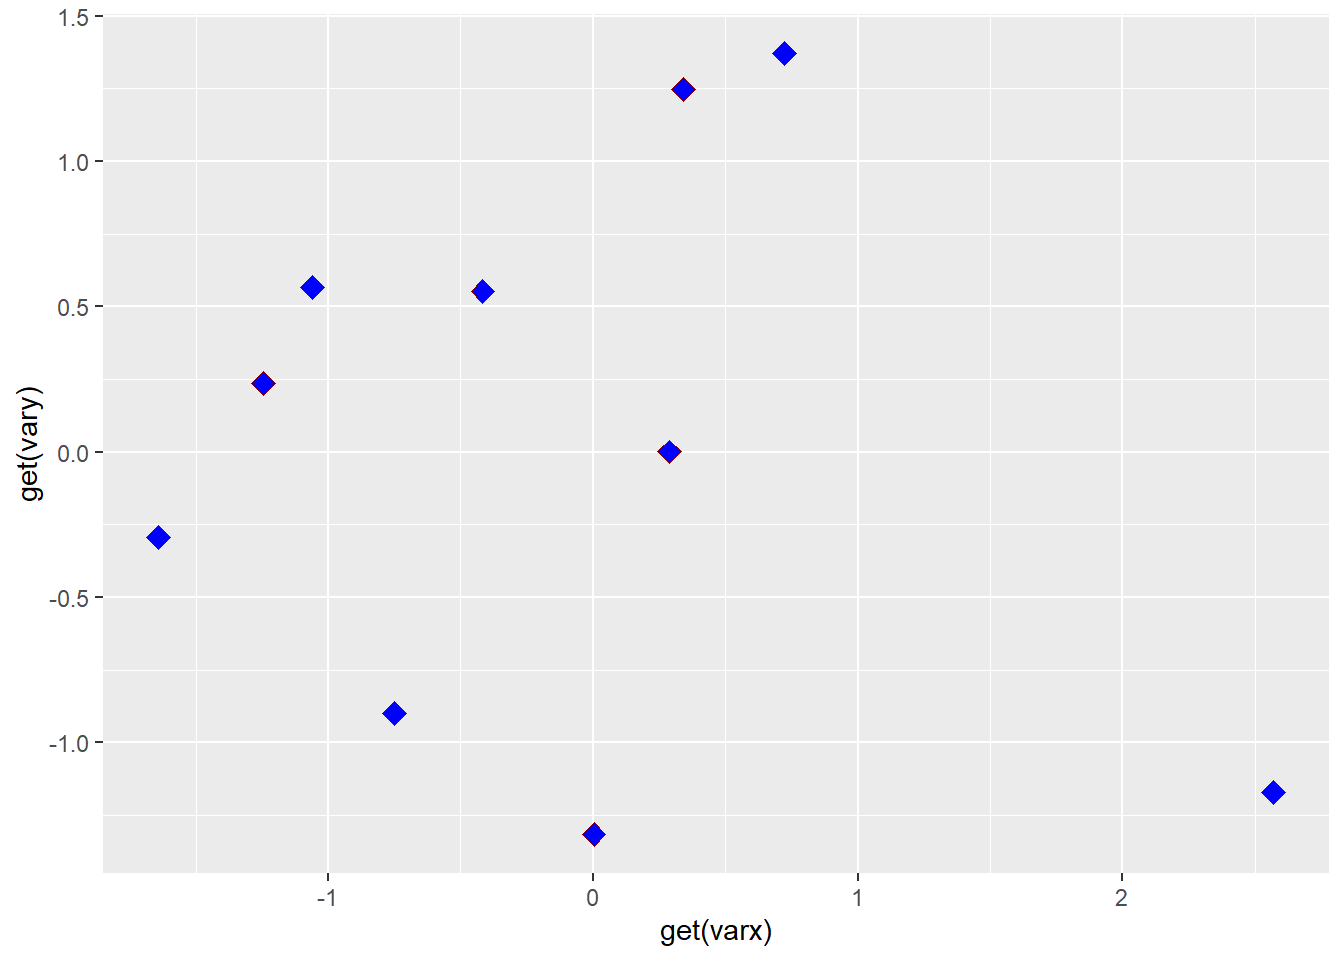
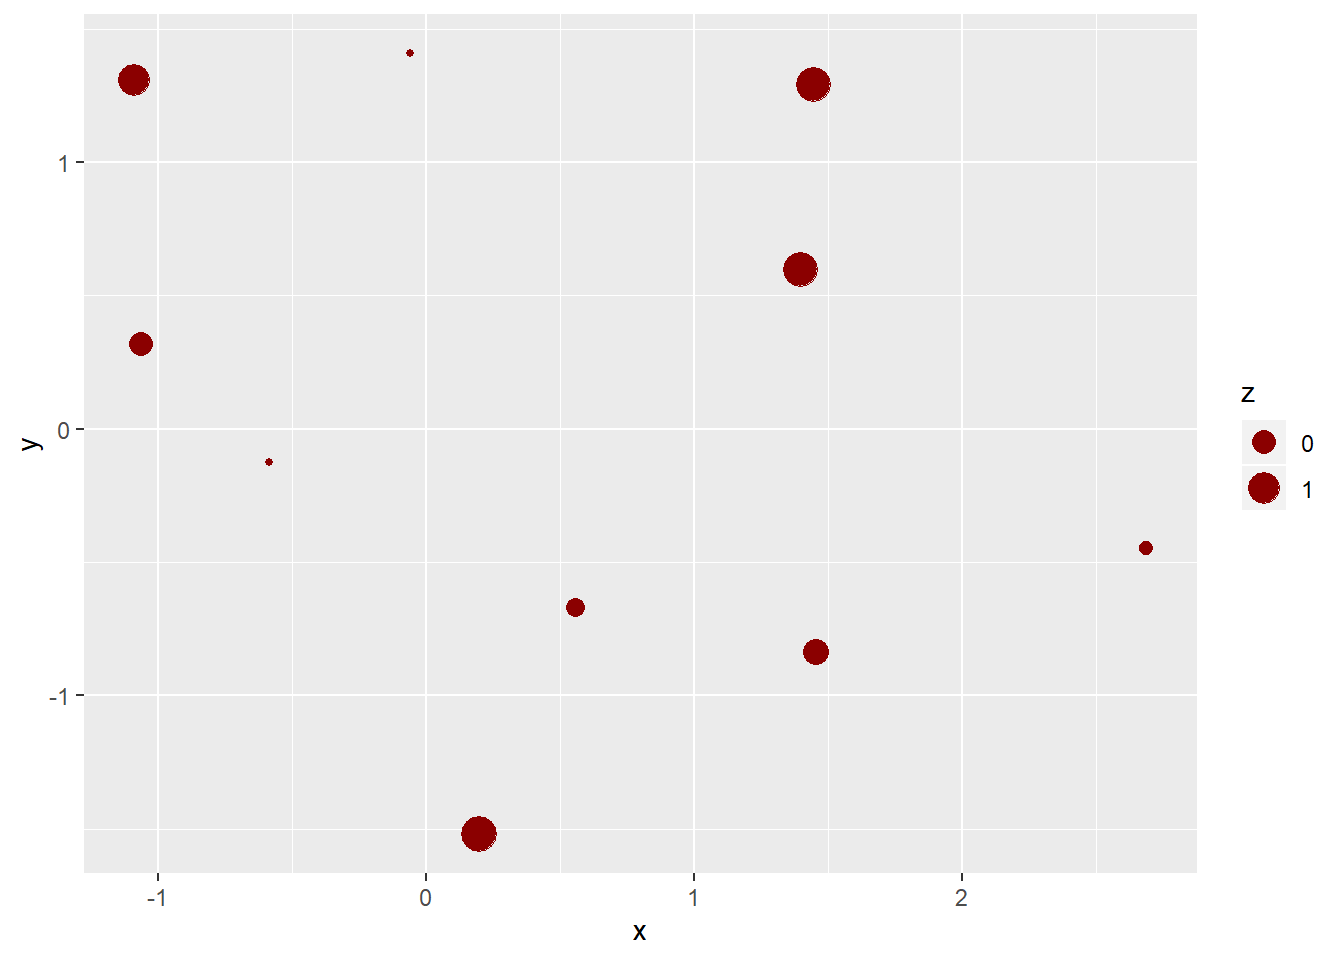
Add files via upload

diff --git a/blog/r-blog/index.html b/blog/r-blog/index.html
@@ -178,6 +178,7 @@
 <li><a href="#check-the-document-and-data"><span class="toc-section-number">4.1</span> Check the Document and Data</a></li>
 </ul></li>
 <li><a href="#upload-the-package"><span class="toc-section-number">5</span> Upload the Package</a></li>
+<li><a href="#acknowledge"><span class="toc-section-number">6</span> Acknowledge</a></li>
 </ul>
 </div>
 
@@ -203,24 +204,25 @@
 <div id="create-a-function" class="section level2">
 <h2><span class="header-section-number">3.1</span> Create a Function</h2>
 <p>Go to File &gt;&gt; New File &gt;&gt; R Script to create an R file with a function for our package.</p>
-<p>A sample function will be</p>
-<pre class="r"><code># Sample function with library.
+<p>Here, I will do a sample bubble plot function with ggplot. A bubble plot can show 3 numeric variables in a 2-d plot. Usually, one variable will be shown by the size of the point, so we can use geom_point function to plot this. This kind of plot is straight forward especially with one variable related to the number or the size of the data.</p>
+<pre class="r"><code># Bubble Plot Function
 
 library(ggplot2)
-diamond_plot &lt;- function(df, varx, vary){
-  ggplot(df, aes(x=get(varx), y=get(vary))) +
-  geom_point(shape=23, fill=&quot;blue&quot;, color=&quot;darkred&quot;, size=3)
+bubble_plot &lt;- function(df, varx, vary, varz){
+  ggplot(df, aes(x=get(varx), y=get(vary), size = get(varz))) +
+    geom_point(fill=&quot;blue&quot;, color=&quot;darkred&quot;) + 
+    labs(x = varx, y = vary, size = varz)
 }</code></pre>
-<p>Here, ggplot2 package will be used. We can save this R Script as diamond_plot.R in the R folder of our package.</p>
+<p>Here, ggplot2 package will be used. We can save this R Script as bubble_plot.R in the R folder of our package.</p>
 <p>We can take a loot at this function.</p>
 <pre class="r"><code># Draw sample plot with the function.
 
 df.test &lt;- data.frame(x = rnorm(10),
-                      y = rnorm(10))
-diamond_plot(df.test, &#39;x&#39;, &#39;y&#39;)</code></pre>
+                      y = rnorm(10),
+                      z = rnorm(10))
+bubble_plot(df.test, &#39;x&#39;, &#39;y&#39;, &#39;z&#39;)</code></pre>
 <p><img src="/blog/2019-10-29-r-blog_files/figure-html/unnamed-chunk-2-1.png" width="672" /></p>
-<p>Here, open the folder R, there should be an R Script file named diamond_plot.R</p>
-<p><img src="/blog/2019-10-29-r-blog_files/5.bmp" /></p>
+<p>Here, open the folder R, there should be an R Script file named bubble_plot.R</p>
 </div>
 <div id="write-the-document." class="section level2">
 <h2><span class="header-section-number">3.2</span> Write the document.</h2>
@@ -228,8 +230,24 @@ diamond_plot(df.test, &#39;x&#39;, &#39;y&#39;)</code></pre>
 <p>Library the required packages in the concole.</p>
 <pre class="r"><code>library(devtools)
 library(roxygen2)</code></pre>
-<p>Keep the script diamond_plot.R open, go to Code &gt;&gt; Insert Roxygen Skeleton. This will add documentation to the function. The script will be like this.</p>
-<p><img src="/blog/2019-10-29-r-blog_files/6.bmp" /></p>
+<p>Keep the script bubble_plot.R open, go to Code &gt;&gt; Insert Roxygen Skeleton. This will add documentation to the function. The script will be like this.</p>
+<pre class="r"><code>#&#39; Title
+#&#39;
+#&#39; @param df 
+#&#39; @param varx 
+#&#39; @param vary 
+#&#39; @param varz 
+#&#39;
+#&#39; @return
+#&#39; @export
+#&#39;
+#&#39; @examples
+bubble_plot &lt;- function(df, varx, vary, varz){
+  ggplot(df, aes(x=get(varx), y=get(vary), size = get(varz))) +
+    geom_point(fill=&quot;blue&quot;, color=&quot;darkred&quot;) + 
+    labs(x = varx, y = vary, size = varz)
+}</code></pre>
+<p>We can take a look into the parameters we may use.</p>
 <ul>
 <li><p><span class="citation">@param</span> indicates the parameters you used</p></li>
 <li><p><span class="citation">@return</span> indicates the return type</p></li>
@@ -270,7 +288,7 @@ install(&#39;ExamplePackage&#39;)</code></pre>
 <h2><span class="header-section-number">4.1</span> Check the Document and Data</h2>
 <p>Type in the console to test the package.</p>
 <pre class="r"><code># See the document
-?diamond_plot
+?bubble_plot
 
 # See the data
 data(sample_data)</code></pre>
@@ -281,6 +299,10 @@ data(sample_data)</code></pre>
 <p>Make a new repository with the same name as our package, and make it public. Add the package to Github.</p>
 <p>To install our package from the Github just type in console:</p>
 <pre class="r"><code>devtools::install_github(&#39;yourusername/ExamplePackage&#39;)</code></pre>
+</div>
+<div id="acknowledge" class="section level1">
+<h1><span class="header-section-number">6</span> Acknowledge</h1>
+<p>This blog is based on Professor Elizabeth Sweeney’s lecture note.</p>
 </div>
 </div>
           
